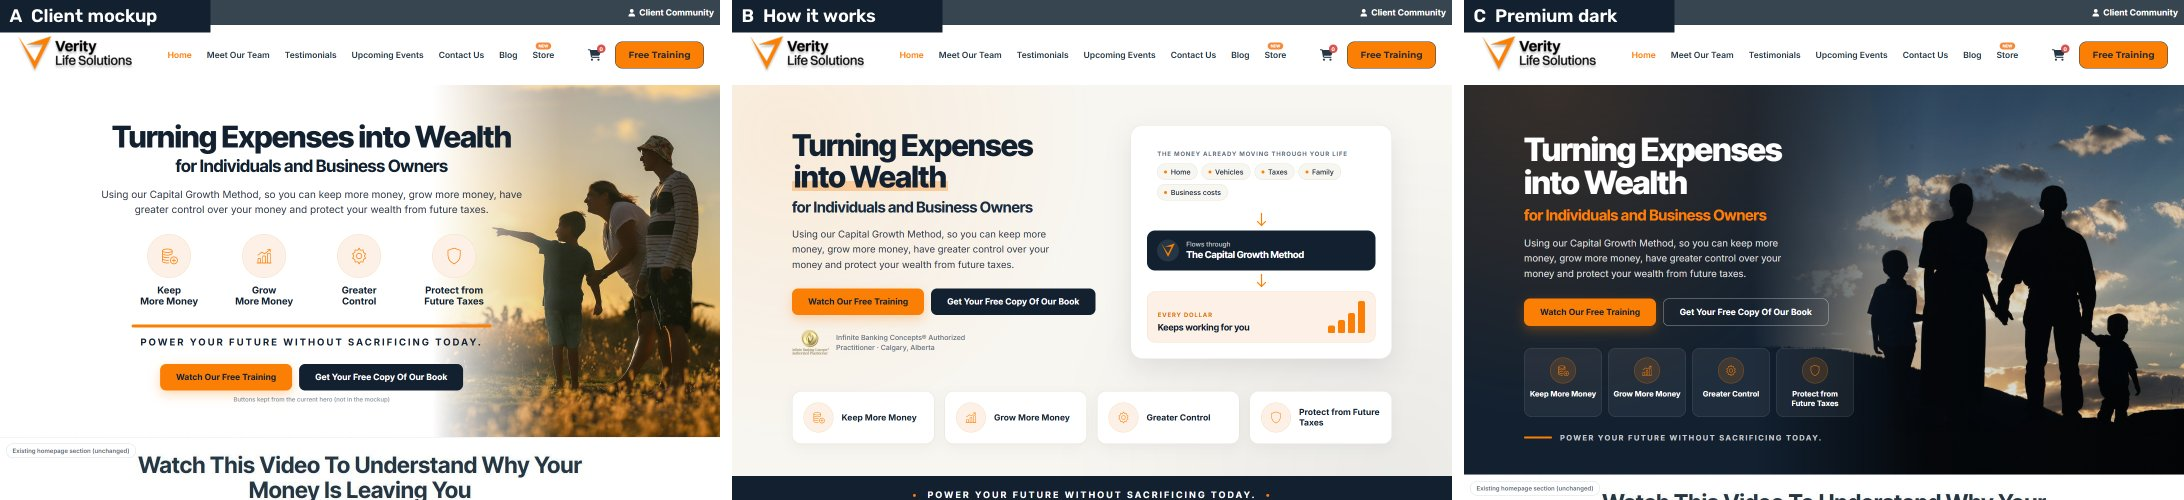
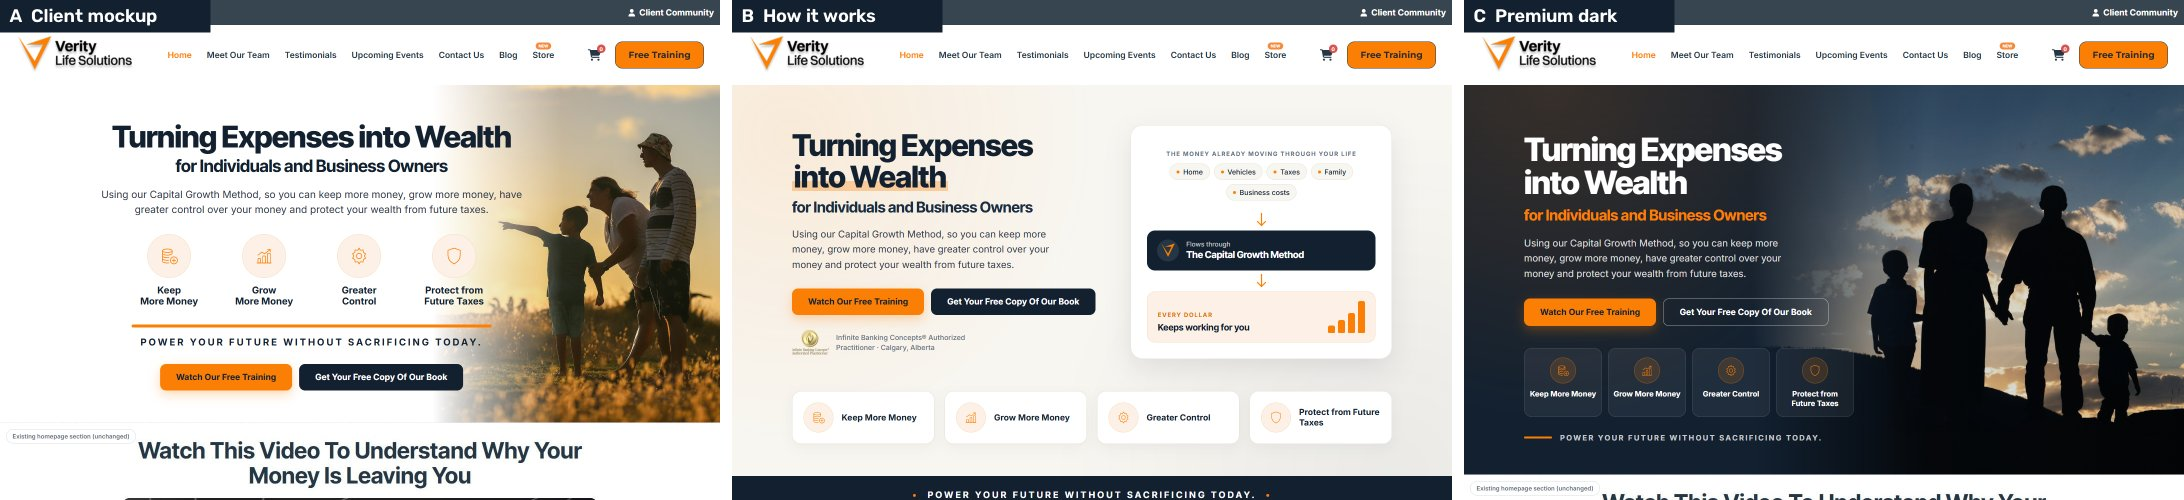
Remove note from option A, center the chips in option B
- A: drop the "Buttons kept from the current hero" note under the buttons
- B: center the "money already moving through your life" label and chips
- Refresh preview thumbnails and comparison images

diff --git a/variant-b.html b/variant-b.html
@@ -33,8 +33,8 @@
   /* how-it-works card */
   .flow { background: #fff; border: 1px solid var(--line); border-radius: 24px; padding: 32px; box-shadow: 0 20px 50px rgba(18, 32, 48, .10); }
   .flow-step { border-radius: 16px; padding: 18px 20px; }
-  .flow-label { margin: 0 0 12px; font: 700 12px/1.2 "Inter", sans-serif; letter-spacing: 1.6px; text-transform: uppercase; color: var(--muted); }
-  .chips { list-style: none; margin: 0; padding: 0; display: flex; flex-wrap: wrap; gap: 8px; }
+  .flow-label { margin: 0 0 12px; font: 700 12px/1.2 "Inter", sans-serif; letter-spacing: 1.6px; text-transform: uppercase; color: var(--muted); text-align: center; }
+  .chips { list-style: none; margin: 0; padding: 0; display: flex; flex-wrap: wrap; justify-content: center; gap: 8px; }
   .chips li { display: inline-flex; align-items: center; gap: 7px; background: var(--cream); border: 1px solid var(--line); border-radius: 999px; padding: 7px 13px; font: 500 14px "Inter", sans-serif; color: var(--navy); }
   .chips li::before { content: ""; width: 6px; height: 6px; border-radius: 50%; background: var(--orange); }
   .arrow { display: flex; justify-content: center; padding: 6px 0; }

diff --git a/variant-a.html b/variant-a.html
@@ -69,7 +69,6 @@
   .btn:hover { transform: translateY(-2px); }
   .btn-primary { background: var(--orange); color: var(--navy); box-shadow: 0 8px 22px rgba(251, 127, 5, .3); }
   .btn-dark { background: var(--navy); color: #fff; }
-  .addition { display: inline-block; margin-top: 10px; font: 500 12px "Inter", sans-serif; color: #8A94A3; }
 
   /* ---------- context: the live section below, unchanged ---------- */
   .context { position: relative; border-top: 1px dashed #D9DEE5; }
@@ -151,7 +150,6 @@
       <a class="btn btn-primary" href="#">Watch Our Free Training</a>
       <a class="btn btn-dark" href="#">Get Your Free Copy Of Our Book</a>
     </div>
-    <span class="addition">Buttons kept from the current hero (not in the mockup)</span>
   </div>
   <div class="hero-photo" role="img" aria-label="A family looking out over the mountains at sunrise"></div>
 </section>
